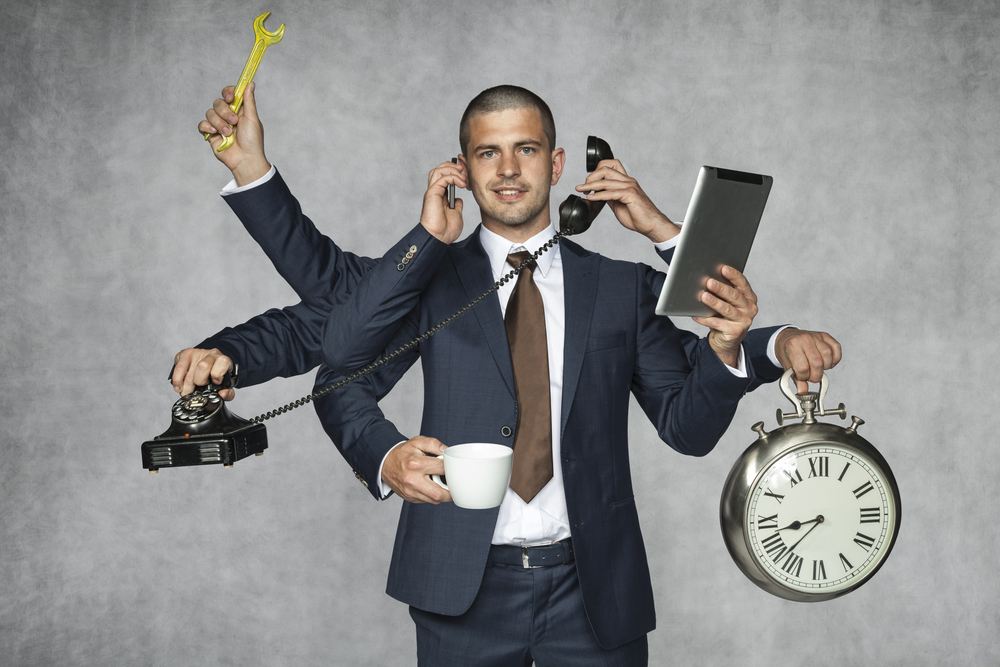
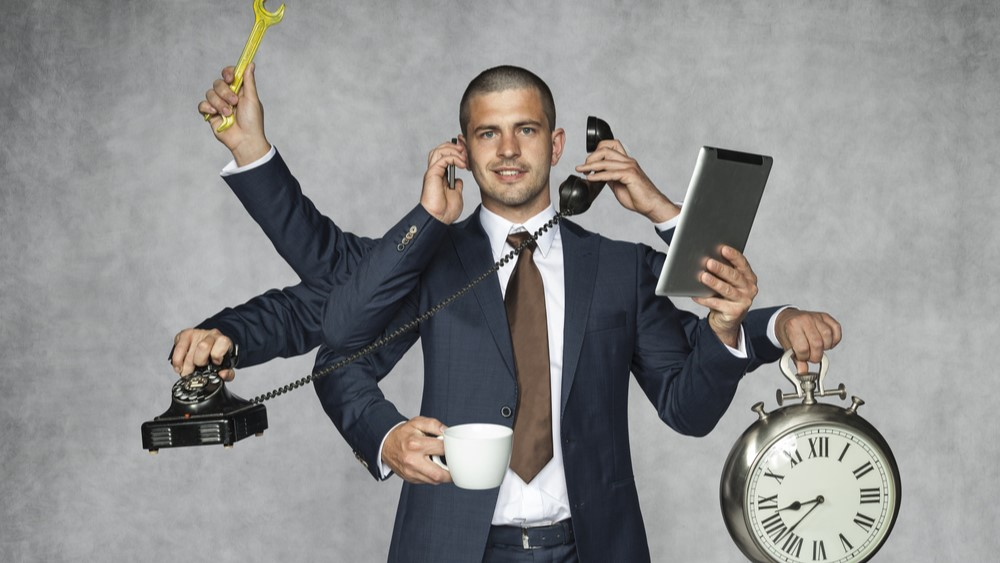
allages :)

diff --git a/index.html b/index.html
@@ -82,9 +82,9 @@
 
       <div class="mycards">
         <div class="card" style="width: 18rem;">
-          <img src="images/graphic.designer.jpg" class="card-img-top" alt="...">
+          <img src="images/graphicdesign.jpg" class="card-img-top" alt="...">
           <div class="card-body">
-            <h5 class="card-title">Graphic designer</h5>
+            <h5 class="card-title">Graphic Designer</h5>
             <p class="card-text">Some quick example text to build on the card title and make up the bulk of the card's content.</p>
             <a href="/job_desc/graphicdesign.html" class="btn btn-primary">More...</a>
           </div>

diff --git a/job_desc/graphicdesign.html b/job_desc/graphicdesign.html
@@ -47,14 +47,12 @@
       </div>
     </nav>
 
-    <br>
-
+    <img src="/images/graphicdesign.jpg" alt="graphic designer">
+    
     <main role="main" class="container">
-
       <div class="starter-template">
-        <img src="/images/graphic.designer.jpg" alt="graphic desgner">
         <br>
-        <h1>Graphic Designer</h1>
+        <h1 id="name">Graphic Designer</h1>
         <hr>
         <h2>Job Description</h2>
         <p class="lead">blablabla.<br> ki alla pragmata...</p>

diff --git a/css/jobs.css b/css/jobs.css
@@ -1,8 +1,15 @@
-hr{
-    width: 50%;
+main{
+    text-align: center;
 }
 
 img{
-    width: 70%;
-    aspect-ratio: 2/1;
+    width: 100%;
+    height: auto;
+}
+
+.name{
+    position: absolute;
+    top: 50%;
+    left: 50%;
+    transform: translate(-50%, -50%);
 }
